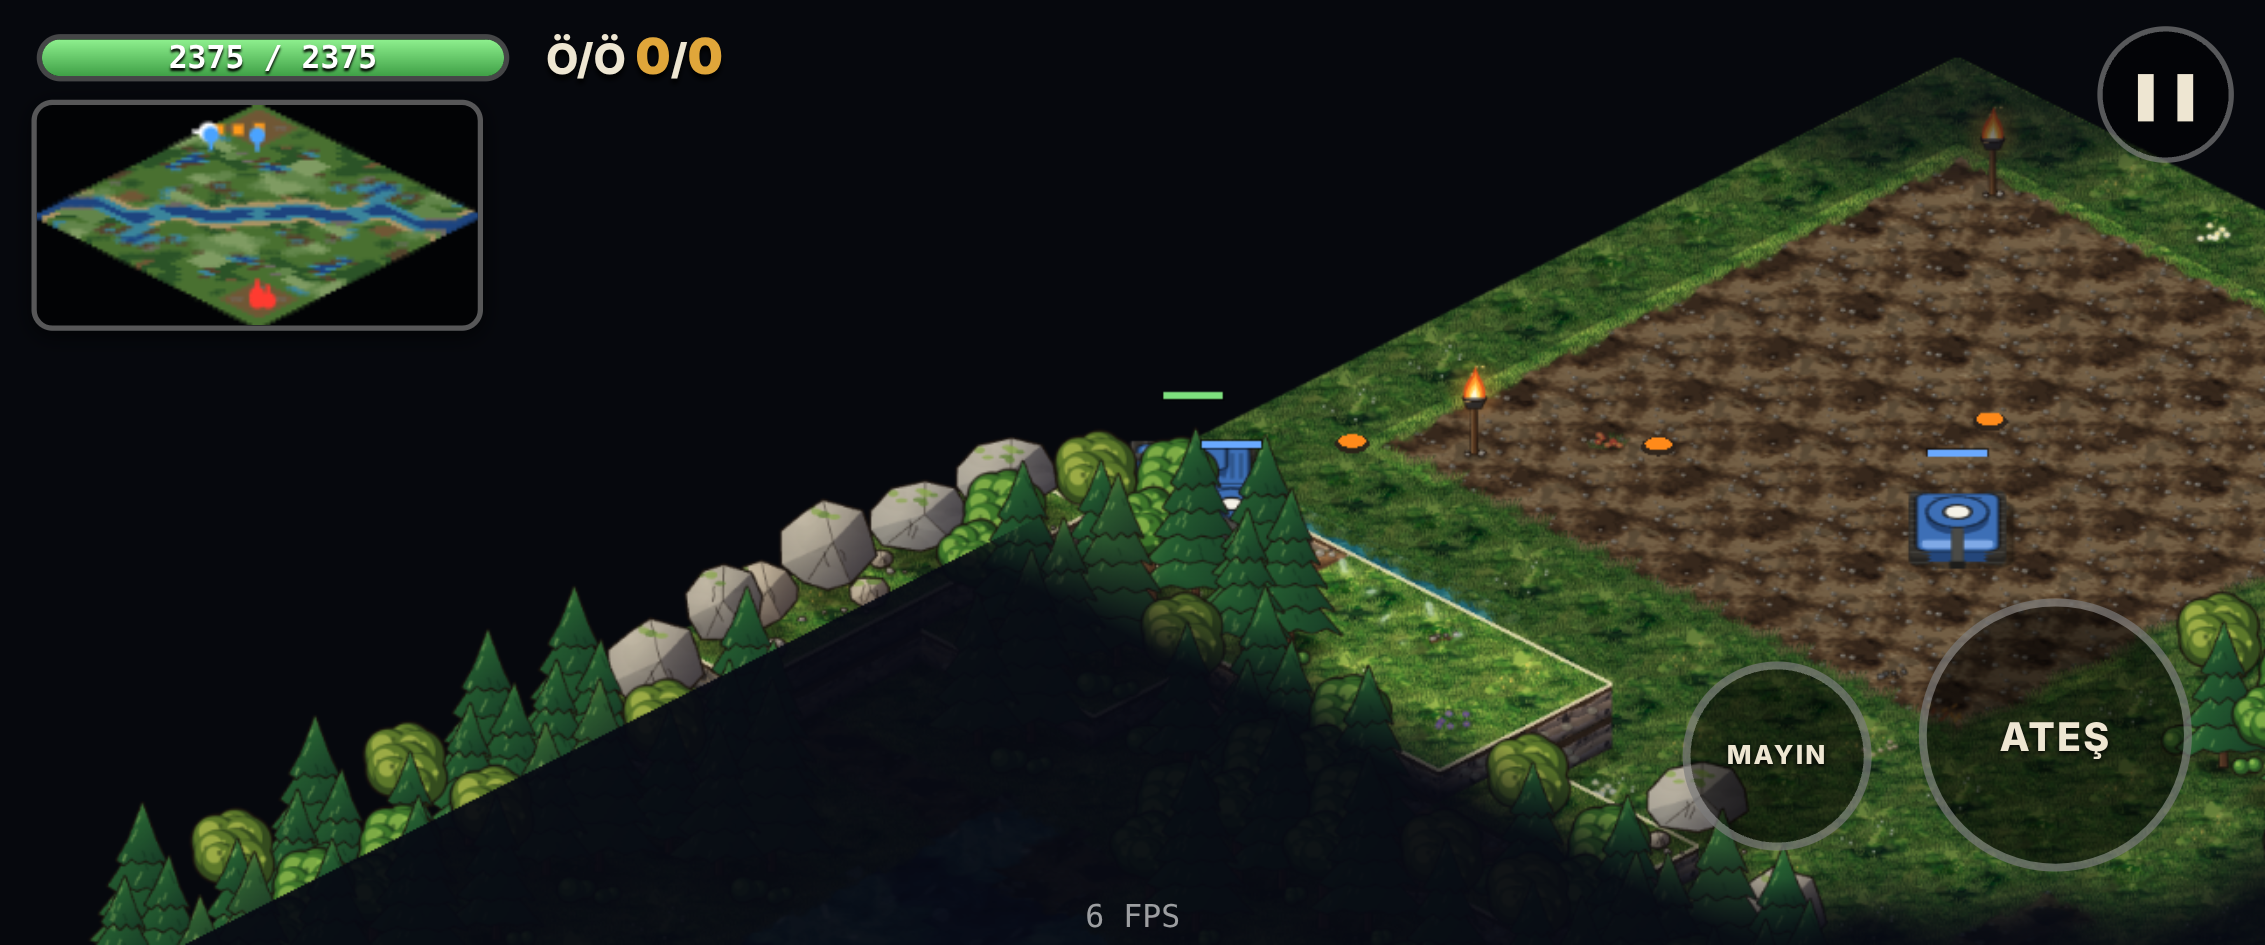
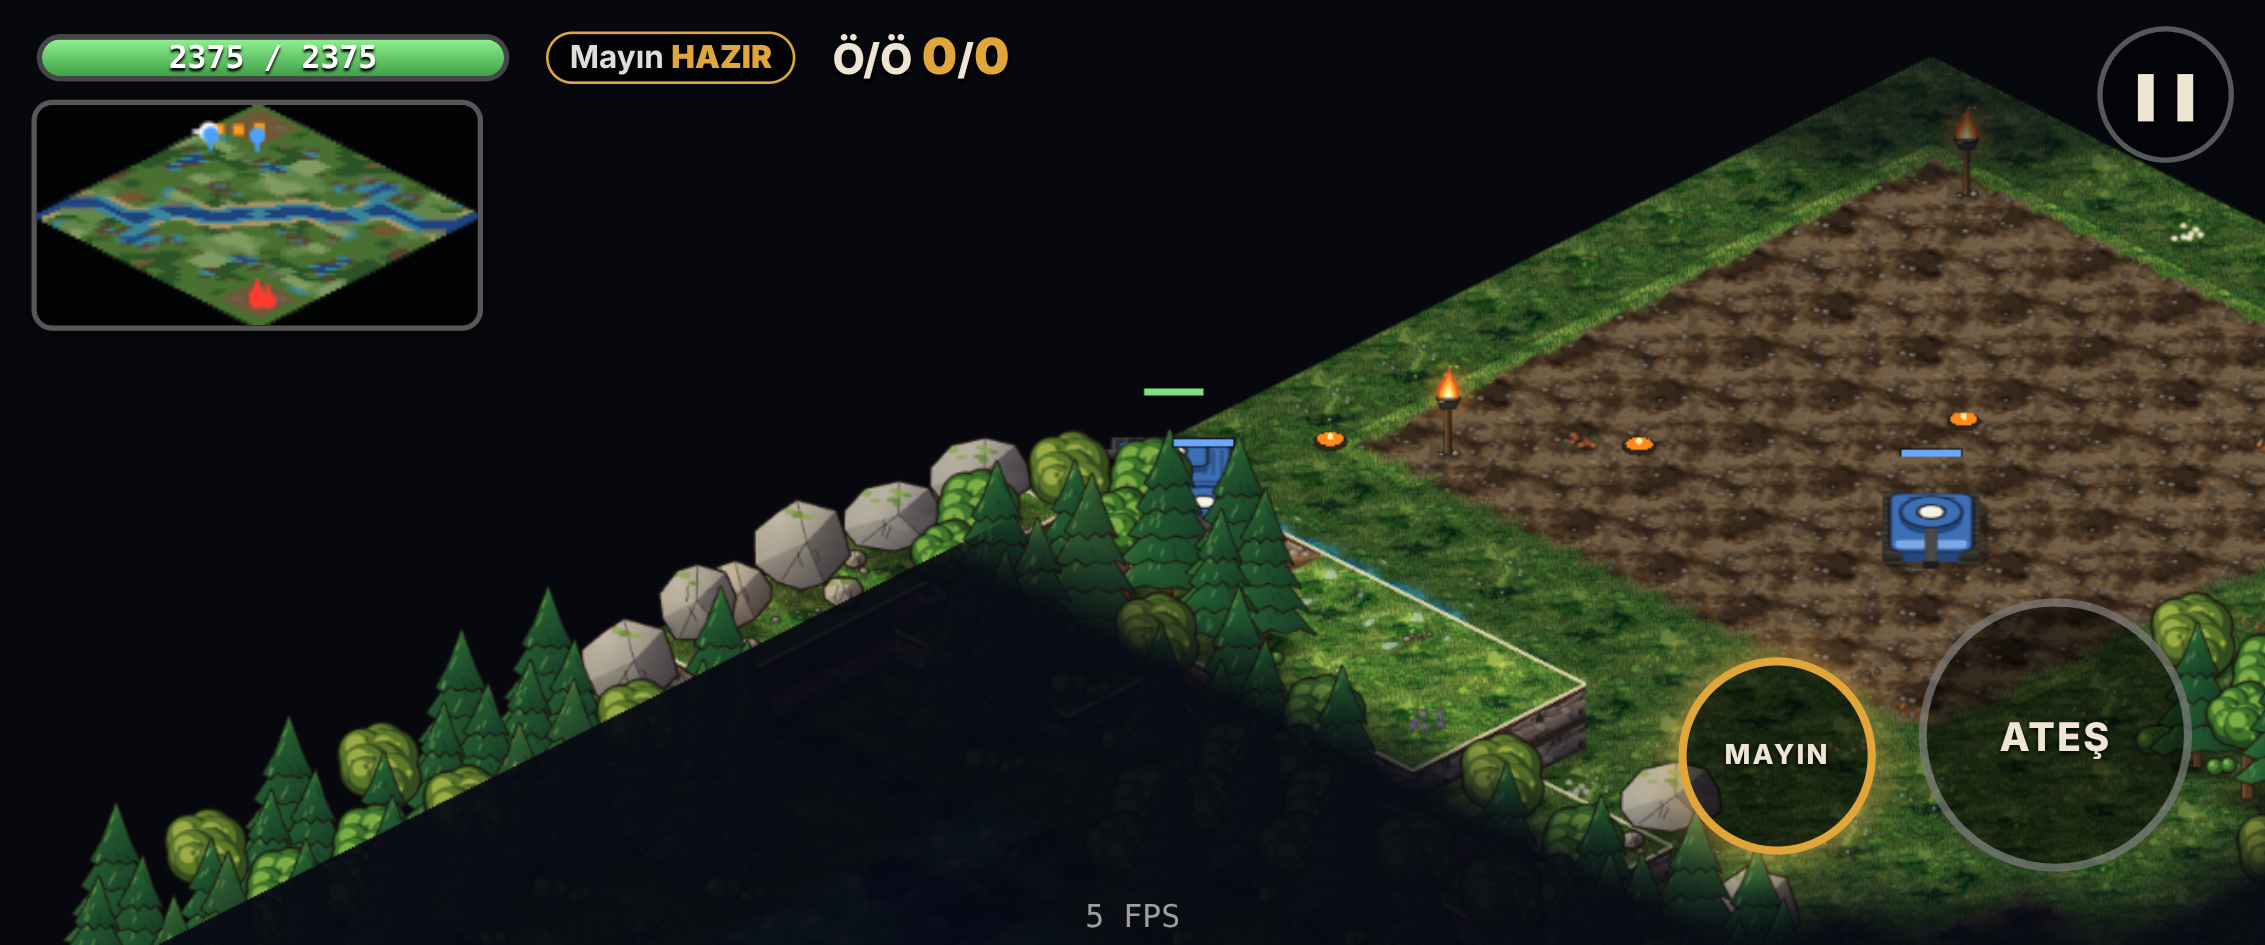
balance: option B in three measured rounds; docs for round 02
- tanks.json/abilities.json: owner-approved option B, every change within
  +-20 % (Heavy fire 1.68 s, armor 20 %, damage 760, Rumble cd 12; Standard
  damage 360, Swift 4 s; Artillery hp 2550, min range 2, splash 1.1, fire
  1.5 s, damage 780; Scout damage 260, hp 1900, Hide cd 4)
- tools/balance.ts: full-length matches, difficulty argument (default hard)
- ability tests read durations/cooldowns from the data
- BALANCE_REPORT (rounds + why Heavy/Artillery stay out of band),
  DECISIONS D-029..D-034, PROGRESS round 02, TANKS.md, CLAUDE.md

Claude-Session: https://claude.ai/code/session_01QLuwurUtEMQpi25FmPCnvD

diff --git a/tools/balance.ts b/tools/balance.ts
@@ -1,15 +1,18 @@
 /**
- * Bot-vs-bot balance simulation (brief §10.2, round-01). Runs headless 60 s matches with random
+ * Bot-vs-bot balance simulation (brief §10.2). Runs headless full-length matches (match.json) with random
  * 3v3 rosters and reports per-class win rate (team with more kills wins; draws excluded), K/D,
- * kills per match, ability uses and charge usage. Usage: npx tsx tools/balance.ts [matches] [mapSize]
+ * kills per match, ability uses and charge usage.
+ * Usage: npx tsx tools/balance.ts [matches] [mapSize] [easy|normal|hard|extreme] (default 200 40 hard)
  * Output: markdown table on stdout (copied into docs/BALANCE_REPORT.md).
  */
-import { TANK_CLASSES, type TankClassId } from '../src/sim/config';
+import { MATCH, TANK_CLASSES, type TankClassId } from '../src/sim/config';
+import type { AiLevel } from '../src/systems/ai/bot';
 import { Rng } from '../src/sim/rng';
 import { runHeadless } from '../src/game/matchSetup';
 
 const N = Number(process.argv[2] ?? 200);
 const size = Number(process.argv[3] ?? 40) as 40 | 64 | 96;
+const level = (process.argv[4] ?? 'hard') as AiLevel;
 type Agg = { games: number; wins: number; losses: number; kills: number; deaths: number; abilities: number; shots: number; charged: number };
 const agg = Object.fromEntries(TANK_CLASSES.map((c) => [c, { games: 0, wins: 0, losses: 0, kills: 0, deaths: 0, abilities: 0, shots: 0, charged: 0 } as Agg])) as Record<TankClassId, Agg>;
 let draws = 0;
@@ -26,7 +29,7 @@ for (let g = 0; g < N; g++) {
   const abil = new Map<number, number>();
   const shots = new Map<number, number>();
   const charged = new Map<number, number>();
-  const m = runHeadless({ seed, mapSize: size, teams }, (h) => {
+  const m = runHeadless({ seed, mapSize: size, teams, aiLevel: level }, (h) => {
     for (const e of h.state.events) {
       if (e.type === 'ability' && e.phase === 'start') abil.set(e.tank, (abil.get(e.tank) ?? 0) + 1);
       if (e.type === 'fire') {
@@ -53,7 +56,7 @@ for (let g = 0; g < N; g++) {
   }
 }
 const secs = ((performance.now() - t0) / 1000).toFixed(1);
-console.log(`Matches: ${N} (3v3, ${size}x${size}, 60 s, random rosters) — draws ${draws} (${((draws / N) * 100).toFixed(0)} %), avg kills/match ${(totalKills / N).toFixed(1)}, runtime ${secs} s\n`);
+console.log(`Matches: ${N} (3v3, ${size}x${size}, ${MATCH.duration} s, random rosters, ${level} bots) — draws ${draws} (${((draws / N) * 100).toFixed(0)} %), avg kills/match ${(totalKills / N).toFixed(1)}, runtime ${secs} s\n`);
 console.log('| Class | Appearances | Win rate (decisive) | K/D | Kills / match | Ability uses / match | Shots / match | Charged shots (≥30 %) | Band 45–55 % |');
 console.log('|---|---|---|---|---|---|---|---|---|');
 for (const c of TANK_CLASSES) {

diff --git a/tests/abilities.test.ts b/tests/abilities.test.ts
@@ -15,14 +15,14 @@ describe('ability framework', () => {
     const s = arena([{ team: 0, cls: 'standard', x: 10.5, y: 10.5 }]);
     run(s, 1, [press]);
     const a = s.tanks[0].ability;
-    expect(a.active).toBeGreaterThan(4.9);
+    expect(a.active).toBeGreaterThan(num(ABILITIES.swift.duration) - 0.1);
     expect(a.cooldown).toBe(0);
     run(s, secs(num(ABILITIES.swift.duration)) + 1, [idle]);
     expect(a.active).toBe(0);
     expect(a.cooldown).toBeCloseTo(num(ABILITIES.swift.cooldown), 1);
     const s2 = arena([{ team: 0, cls: 'standard', x: 10.5, y: 10.5 }], { rules: { cooldownMul: 0.5 } });
     run(s2, 1, [press]);
-    run(s2, secs(5) + 1, [idle]);
+    run(s2, secs(num(ABILITIES.swift.duration)) + 1, [idle]);
     expect(s2.tanks[0].ability.cooldown).toBeCloseTo(num(ABILITIES.swift.cooldown) * 0.5, 1);
   });
 
@@ -36,7 +36,7 @@ describe('ability framework', () => {
 });
 
 describe('Scout — Hide', () => {
-  it('invisible for 5 s, then visible; cooldown 5 s after', () => {
+  it('invisible for its duration, then visible; then the cooldown runs', () => {
     const s = arena([
       { team: 0, cls: 'scout', x: 10.5, y: 10.5 },
       { team: 1, cls: 'standard', x: 13.5, y: 10.5 },
@@ -44,9 +44,9 @@ describe('Scout — Hide', () => {
     run(s, 1, [press, idle]);
     updateVision(s);
     expect(canSeeTank(s, 1, s.tanks[0])).toBe(false);
-    run(s, secs(5) + 2, [idle, idle]);
+    run(s, secs(num(ABILITIES.hide.duration)) + 2, [idle, idle]);
     expect(canSeeTank(s, 1, s.tanks[0])).toBe(true);
-    expect(s.tanks[0].ability.cooldown).toBeGreaterThan(4.9);
+    expect(s.tanks[0].ability.cooldown).toBeGreaterThan(num(ABILITIES.hide.cooldown) - 0.1);
   });
 
   it('firing ends invisibility immediately and starts the cooldown', () => {
@@ -55,7 +55,7 @@ describe('Scout — Hide', () => {
     run(s, 2, [{ ...idle, buttons: BTN_FIRE }]);
     run(s, 1, [idle]);
     expect(s.tanks[0].ability.active).toBe(0);
-    expect(s.tanks[0].ability.cooldown).toBeGreaterThan(4.9);
+    expect(s.tanks[0].ability.cooldown).toBeGreaterThan(num(ABILITIES.hide.cooldown) - 0.1);
   });
 
   it('getting hit while invisible shimmers but stays invisible', () => {

diff --git a/e2e/round02.spec.ts b/e2e/round02.spec.ts
@@ -67,7 +67,7 @@ test('tank select: swipeable cards with stats + ability, difficulty selector (re
   await shot(page, '05-tank-cards-swiped');
   // every card is reachable and shows its own numbers
   for (const [cls, hp] of [
-    ['scout', '1.750'],
+    ['scout', '1.900'],
     ['heavy', '5.500'],
     ['trapper', '2.375'],
   ] as const) {

diff --git a/docs/TANKS.md b/docs/TANKS.md
@@ -8,13 +8,15 @@ hasar 1x → 3x (tam şarj), "mükemmel şarj" +%15, mermi hızı 1x → 1,6x, m
 
 | Sınıf | Kod adı | Rol | Hız | Can | Zırh | Efektif can* | Görüş | Atış tipi |
 |---|---|---|---|---|---|---|---|---|
-| Çevik | `scout` | Kanat / keşif | 4,2 (çok yüksek) | 1750 | %0 | 1750 | 6 | Düz, seri |
-| Ağır | `heavy` | Hat tutucu | 1,5 (çok düşük) | 5500 | %25 | 7333 | 4,5 | Düz, ağır, 1 kez seker |
-| Dengeli | `standard` | Her işi gören | 2,7 (orta) | 3000 | %10 | 3333 | 6 | Düz |
-| Topçu | `artillery` | Arkadan destek | 1,9 (düşük) | 2125 | %5 | 2237 | 6 | Kavisli, engel üstünden, alan hasarı |
-| Tuzakçı | `trapper` | Bilgi / kontrol | 2,2 (orta-düşük) | 2375 | %5 | 2500 | **Tüm harita** (+ mini harita) | Düz, zayıf |
+| Çevik | `scout` | Kanat / keşif | 4,2 (çok yüksek) | 1.900 | %0 | 1.900 | 6 | Düz, seri |
+| Ağır | `heavy` | Hat tutucu | 1,5 (çok düşük) | 5.500 | %20 | 6.875 | 4,5 | Düz, ağır, 1 kez seker |
+| Dengeli | `standard` | Her işi gören | 2,7 (orta) | 3.000 | %10 | 3.333 | 6 | Düz |
+| Topçu | `artillery` | Arkadan destek | 1,9 (düşük) | 2.550 | %5 | 2.684 | 6 | Kavisli, engel üstünden, alan hasarı |
+| Tuzakçı | `trapper` | Bilgi / kontrol | 2,2 (orta-düşük) | 2.375 | %5 | 2.500 | **Tüm harita** (+ mini harita) | Düz, zayıf |
 
 \* Efektif can = can / (1 − zırh).
+
+**Denge turu (2026-10-09, D-034):** B seçeneği uygulandı; aşağıdaki değerler güncel.
 
 **Ölçek (2026-10-09, D-027):** sahibinin kararıyla tüm can ve hasarlar eski değerlerin **×25**'i (Ağır can = 5500 referans); oranlar ve denge aynı. Yarım şarj ×1,6 hasar verir.
 
@@ -22,11 +24,11 @@ hasar 1x → 3x (tam şarj), "mükemmel şarj" +%15, mermi hızı 1x → 1,6x, m
 
 | Sınıf | Hasar (dokunuş) | Hasar (tam şarj) | Mükemmel şarj | Bekleme (cooldown) | Şarj süresi | Şarjda yavaşlama | Mermi hızı | Menzil | Patlama yarıçapı | Özel |
 |---|---|---|---|---|---|---|---|---|---|---|
-| Çevik | 225 | 675 | 776 | 0,28 sn | 0,8 sn | %20 | 11 | 7 | 0,25 | — |
-| Ağır | 950 | 2850 | 3278 | 1,4 sn | 2,2 sn | %50 | 8 | 7,5 | 0,55 | Duvardan 1 kez seker |
-| Dengeli | 450 | 1350 | 1553 | 0,7 sn | 1,4 sn | %35 | 10 | 7 | 0,35 | — |
-| Topçu | 650 | 1950 | 2243 | 1,8 sn | 1,8 sn | %45 | 7 | 10 | 0,9 | Kavisli; şarj atış mesafesini belirler; min. menzil 3 |
-| Tuzakçı | 300 | 900 | 1035 | 1,0 sn | 1,5 sn | %35 | 9 | 6,5 | 0,3 | — |
+| Çevik | 260 | 780 | 897 | 0,28 sn | 0,8 sn | %20 | 11 | 7 | 0,25 | — |
+| Ağır | 760 | 2.280 | 2.622 | 1,68 sn | 2,2 sn | %50 | 8 | 7,5 | 0,55 | Duvardan 1 kez seker |
+| Dengeli | 360 | 1.080 | 1.242 | 0,7 sn | 1,4 sn | %35 | 10 | 7 | 0,35 | — |
+| Topçu | 780 | 2.340 | 2.691 | 1,5 sn | 1,8 sn | %45 | 7 | 10 | 1,1 | Kavisli; şarj atış mesafesini belirler; min. menzil 2 |
+| Tuzakçı | 300 | 900 | 1.035 | 1 sn | 1,5 sn | %35 | 9 | 6,5 | 0,3 | — |
 
 ## Hareket özellikleri
 
@@ -44,8 +46,8 @@ Değerler `src/data/abilities.json`. Bekleme süresi etki bittikten sonra başla
 
 | Sınıf | Yetenek | Ne yapar | Süre | Bekleme | Hasar |
 |---|---|---|---|---|---|
-| Çevik | Saklan | Görünmezlik; ateş edince biter, vurulunca 0,5 sn parıldar | 5 sn | 5 sn | — |
-| Ağır | Gümbürtü | Anlık şok dalgası, 2,4 kare; geri iter, duvar arkasına geçmez | anlık | 10 sn | 850 merkez → 298 kenar |
-| Dengeli | Swift | 2x hız ve atış hızı, şarj süresi yarıya | 5 sn | 8 sn | — |
+| Çevik | Saklan | Görünmezlik; ateş edince biter, vurulunca 0,5 sn parıldar | 5 sn | 4 sn | — |
+| Ağır | Gümbürtü | Anlık şok dalgası, 2,4 kare; geri iter, duvar arkasına geçmez | anlık | 12 sn | 850 merkez → 298 kenar |
+| Dengeli | Swift | 2x hız ve atış hızı, şarj süresi yarıya | 4 sn | 8 sn | — |
 | Topçu | Yaylım Ateşi | **6 mermi, 1 sn içinde** (0,18 sn arayla) hedef bölgeye; iniş yerleri herkese uyarılır | 1 sn | 10 sn | 450 / mermi (en çok 2700) |
 | Tuzakçı | Mayın | Arkaya mayın; en çok 3 aktif | anlık | 2 sn | 1500 (basana), çevreye en çok %60 |

diff --git a/docs/DECISIONS.md b/docs/DECISIONS.md
@@ -32,3 +32,9 @@ Small, reversible decisions taken autonomously (brief §0). Newest at the bottom
 | D-026 | 2026-10-08 | Static ground (tiles, cliff edges, decals) is **baked into a RenderTexture** around the camera and only re-baked when the view leaves the baked area or terrain changes; water stays live. Feature sprites use Pixi's `CullerPlugin`; relayout margin 300 px. | Round 01 added vision, overlays and 6 tanks; CI perf gate hit p95 33 ms. Baking cut JS work mean 6.8 → ~4.6 ms locally (gate p95 16.7 ms). |
 | D-027 | 2026-10-09 | **Owner decision: all hp and damage ×25** (Heavy hp = 5500 as the anchor; armor, charge curve and ratios unchanged). Ability damages ×25 too (Rumble 850, Barrage 450/shell, Mine 1500). `combat.shell.terrainDamageMul` 1 → 0.04 so walls/crates keep their durability; the "big hit" damage-number colour is now ≥ 25 % of the target's max hp instead of a fixed 30. | Owner prefers bigger numbers; a uniform scale keeps time-to-kill and balance identical (balance sim confirms). |
 | D-028 | 2026-10-09 | **Owner decision: Artillery Barrage = 6 shells within 1 s** (`shots 6, interval 0.18, duration 1`; was 5 shells over 5 s). | The old barrage took too long. Balance sim: artillery kills/match 0.27 → 0.53, K/D 0.22 → 0.39, win rate ~unchanged (27 %). |
+| D-029 | 2026-10-09 | **Owner decision: 5-minute matches** (`match.json → duration 300`); no extra 1-minute warning. | "1 dk çok az." Headless tests keep running the default duration (still fast, ~2 s per match). |
+| D-030 | 2026-10-09 | **Bot difficulty Kolay/Normal/Zor/Ekstrem** (`ai.json → levels`): first shot `fireDelay` 5/3/1/0 s after a visible enemy enters the gun's range (resets after 0.5 s out of range/sight); easy = clumsy driving, random ability use; normal = no tactics; hard = cover/retreat/strafe/situational abilities; extreme = hard + focus fire on the weakest enemy in range. **Applies to allies too** (owner). Chosen on the tank-select screen (names only), saved as `settings.difficulty` (save schema v3). | Owner spec. |
+| D-031 | 2026-10-09 | Auto-aim fix: touch manual aim needs a 60 px drag (was 22 px) and **ends when the finger lifts** (it stayed stuck on the last angle). Target switch ratio 0.9; an out-of-range lock yields at once to a visible enemy in range. | "Yakındaki düşmana bazen nişan almıyor": root cause was the sticky manual aim from thumb drift. |
+| D-032 | 2026-10-09 | Tank select = swipeable scroll-snap cards (centred card is selected), all numbers read from the data files; ability-tree section shows "Yakında". | Owner request; data-driven so balance edits update the cards automatically. |
+| D-033 | 2026-10-09 | App icon is generated from SVG (`assets/icon/`, `npm run icons`): adaptive foreground/background + Android 13 monochrome + legacy PNGs + 512 px store icon + favicon. | Reproducible, editable; an AI-made icon can replace the SVGs later. |
+| D-034 | 2026-10-09 | **Balance option B (owner-approved), 3 rounds, each change ≤ ±20 %:** Heavy fire 1.4→1.68 s, armor 25→20 %, damage 950→760, Rumble cd 10→12 s; Standard damage 450→360, Swift 5→4 s; Artillery hp 2125→2550, min range 3→2, splash 0.9→1.1, fire 1.8→1.5 s, damage 650→780; Scout damage 225→260, hp 1750→1900, Hide cd 5→4 s; Trapper unchanged. Measured with hard bots, 5-min matches. | Scout/Trapper now in band, Standard 56.5 %, Heavy 63 %, Artillery 31.5 % — the last two need decisions outside option B (see BALANCE_REPORT). |

diff --git a/docs/PROGRESS.md b/docs/PROGRESS.md
@@ -58,6 +58,23 @@ Assumptions (details in DECISIONS D-015…D-025): forest is see-through but conc
 
 To try on the phone: auto-aim feel + reticle readability; whether cliffs/ramps are now obvious (try Settings → Engel vurgusu → Güçlü); bump flash/haptic; each ability's timing (Settings → Geliştirici → Bekleme çarpanı); 60 s match pacing and the results screen; Trapper minimap.
 
+## Round 02 — owner feedback (branch `fix/round-02-feedback`, 2026-10-09)
+
+| # | Job | Status | Evidence |
+|---|---|---|---|
+| 1 | 5-minute matches (D-029) | ✅ | `match.json duration 300`; headless match test runs the full default duration |
+| 2 | Swipeable tank cards + "Yakında" ability tree (D-032) | ✅ | `src/ui/ClassSelect.tsx`; e2e round02 (swipe selects next card, every class reachable, numbers from data); `04/05/06-*.png` |
+| 3 | Ability active / cooldown / ready indicator | ✅ | button ring + seconds, ready flash + click + haptic, HUD chip; e2e round02; `01/02/03-ability-*.png` |
+| 4 | Bot difficulty Kolay/Normal/Zor/Ekstrem, allies included (D-030) | ✅ | `ai.json levels`; `tests/ai.test.ts` (first shot after exactly 5/3/1/0 s, delay restarts, retreat only on hard+, extreme focus fire, easy wanders); selector saved (schema v3, `tests/save.test.ts`) |
+| 5 | Balance option B (D-034) | 🟡 | 3 rounds within ±20 %: Scout 48 %, Trapper 51 % ✅, Standard 56.5 % ≈, Heavy 63 %, Artillery 31.5 % ❌ — cause analysed in `BALANCE_REPORT.md`, needs an owner decision |
+| 6 | Auto-aim "sometimes ignores a nearby enemy" (D-031) | ✅ | root cause: sticky manual aim after a thumb drift on FIRE; `tests/targeting.test.ts` (10 % hysteresis, out-of-range switch) + e2e controls (drift keeps auto-aim, release returns to auto-aim) |
+| 7 | App icon (D-033) | ✅ | `npm run icons`; adaptive + monochrome + legacy; `07-icon-shapes.png` |
+
+Gates: lint ✅ typecheck ✅ unit 125 ✅ E2E 19 ✅ perf ✅ (60 FPS, p95 16.7 ms).
+
+To try on the phone: the new launcher icon; swiping the tank cards; each difficulty (Kolay should feel clumsy and slow to shoot, Ekstrem should shoot at once and gang up on a weak tank); the ability button countdown; auto-aim while holding FIRE with a moving thumb; a full 5-minute match.
+
 ## Open questions for the owner
-- Abilities per class: owner will fill `docs/TANKS.md`.
+- Balance: Heavy (63 %) and Artillery (31.5 %) are outside the band after option B — see BALANCE_REPORT (artillery blast rule / Heavy hp).
+- Tank art: owner may supply 3D models (.glb) or images (Nano Banana) — pipeline to be planned.
 - Git flow: the session can only push `claude/tanky-tunky-setup-dw06hp`. Should this branch be merged into a new `main` via PR (and later phases go through PRs)? See D-001.

diff --git a/docs/BALANCE_REPORT.md b/docs/BALANCE_REPORT.md
@@ -41,3 +41,32 @@ All values live in `src/data/tanks.json`, `combat.json`, `abilities.json`, `ai.j
 | standard | 69.9 % → 69.0 % | 1.94 → 1.74 | 1.55 → 1.59 |
 | artillery | 27.1 % → 27.6 % | 0.22 → 0.39 | 0.27 → 0.53 |
 | trapper | 44.5 % → 45.5 % | 0.78 → 0.85 | 0.91 → 1.04 |
+
+## Round 02 — option B (D-034), hard bots, 5-minute matches
+
+`npx tsx tools/balance.ts 300 40 hard` (300 matches, same seeds for every run).
+
+| Class | Before B | Round 1 | Round 2 | **Round 3 (current)** |
+|---|---|---|---|---|
+| scout | 42.1 % | 47.4 % | 50.9 % | **48.3 %** ✅ |
+| heavy | 69.2 % | 66.2 % | 62.0 % | **63.4 %** ❌ |
+| standard | 62.6 % | 58.1 % | 58.5 % | **56.5 %** ≈ |
+| artillery | 24.1 % | 26.9 % | 28.0 % | **31.5 %** ❌ |
+| trapper | 51.2 % | 50.3 % | 49.0 % | **50.7 %** ✅ |
+
+Final table:
+
+| Class | Appearances | Win rate (decisive) | K/D | Kills / match | Ability uses / match | Shots / match | Charged shots (≥30 %) | Band 45–55 % |
+|---|---|---|---|---|---|---|---|---|
+| scout | 377 | 48.3 % | 1.01 | 3.90 | 29.13 | 45.1 | 38 % | ✅ |
+| heavy | 356 | 63.4 % | 1.45 | 3.09 | 2.70 | 12.7 | 56 % | ❌ |
+| standard | 369 | 56.5 % | 1.09 | 3.33 | 5.89 | 29.0 | 44 % | ❌ |
+| artillery | 333 | 31.5 % | 0.66 | 2.67 | 16.14 | 112.5 | 92 % | ❌ |
+| trapper | 365 | 50.7 % | 1.01 | 3.88 | 60.68 | 16.5 | 56 % | ✅ |
+
+
+### Why Heavy and Artillery are still outside the band
+- **Artillery** — a probe over 40 matches: **131 damage per shot** on average although the shell's tap damage is 780. Only 54 % of shells touch anyone, and those land near the blast edge (damage falls linearly to 0 at the edge; arcing shells never score a direct hit), so a hit deals about 20 % of the listed damage. More damage/hp barely moves it (+7 points over three rounds). It needs a rule change, e.g. full damage inside the inner half of the blast radius, or a short-range auto-correction of the landing point toward the locked target.
+- **Heavy** — accurate (93 % of shots hit) and very hard to kill; all its option-B levers are at the ±20 % limit. The remaining lever is its hp (5500, owner's anchor value) or Rumble.
+
+Owner decides the next step; nothing outside option B was changed.

diff --git a/CLAUDE.md b/CLAUDE.md
@@ -28,7 +28,8 @@ Vite 8 + TypeScript 5.9 (strict) + React 19 (menus/HUD as DOM overlay only) + **
 | Build web (→ `dist/`) | `npm run build` |
 | E2E (Pixel 7 landscape, touch; needs build) | `npm run e2e` → screenshots in `e2e/out/` |
 | All gates | `npm run check` |
-| Balance sim (headless bots) | `npx tsx tools/balance.ts 300 40` |
+| Balance sim (headless bots) | `npx tsx tools/balance.ts 300 40 hard` |
+| App icon (SVG → all Android sizes) | `npm run icons` |
 | Round screenshots | `npx playwright test e2e/round01.spec.ts` → `docs/screens/round-01/` |
 | Engine benchmark | `npx vite build -c bench/vite.config.ts && npm run bench:engines` |
 | Debug APK | CI only (no Android SDK reachable from the cloud container): push → Actions "Android APK" → artifact |
@@ -106,6 +107,11 @@ placeholder bots, perf gate 60 FPS / p95 16.7 ms on 96×96 at CPU 4x. Tank list 
 ### Round 01 (branch `fix/round-01-core-loop`) ✅ — see docs/PROGRESS.md
 VisibilitySystem + fog, auto-aim, unified passability + cliff visuals, fog-fair AI, 60 s matches with respawn/scoreboard,
 5 data-driven abilities, balance report (untuned by request). PR into `claude/tanky-tunky-setup-dw06hp`.
+
+### Round 02 (branch `fix/round-02-feedback`, PR stacked on round 01) ✅ — see docs/PROGRESS.md
+5-minute matches, swipeable tank cards, ability state indicator, bot difficulty (allies too), auto-aim touch fix, app icon,
+balance option B (Heavy/Artillery still outside the band — owner decision pending). Owner rule: **collect requested changes,
+show the plan, start only after the owner says "uygula"**.
 
 ## 7. Next steps
 
